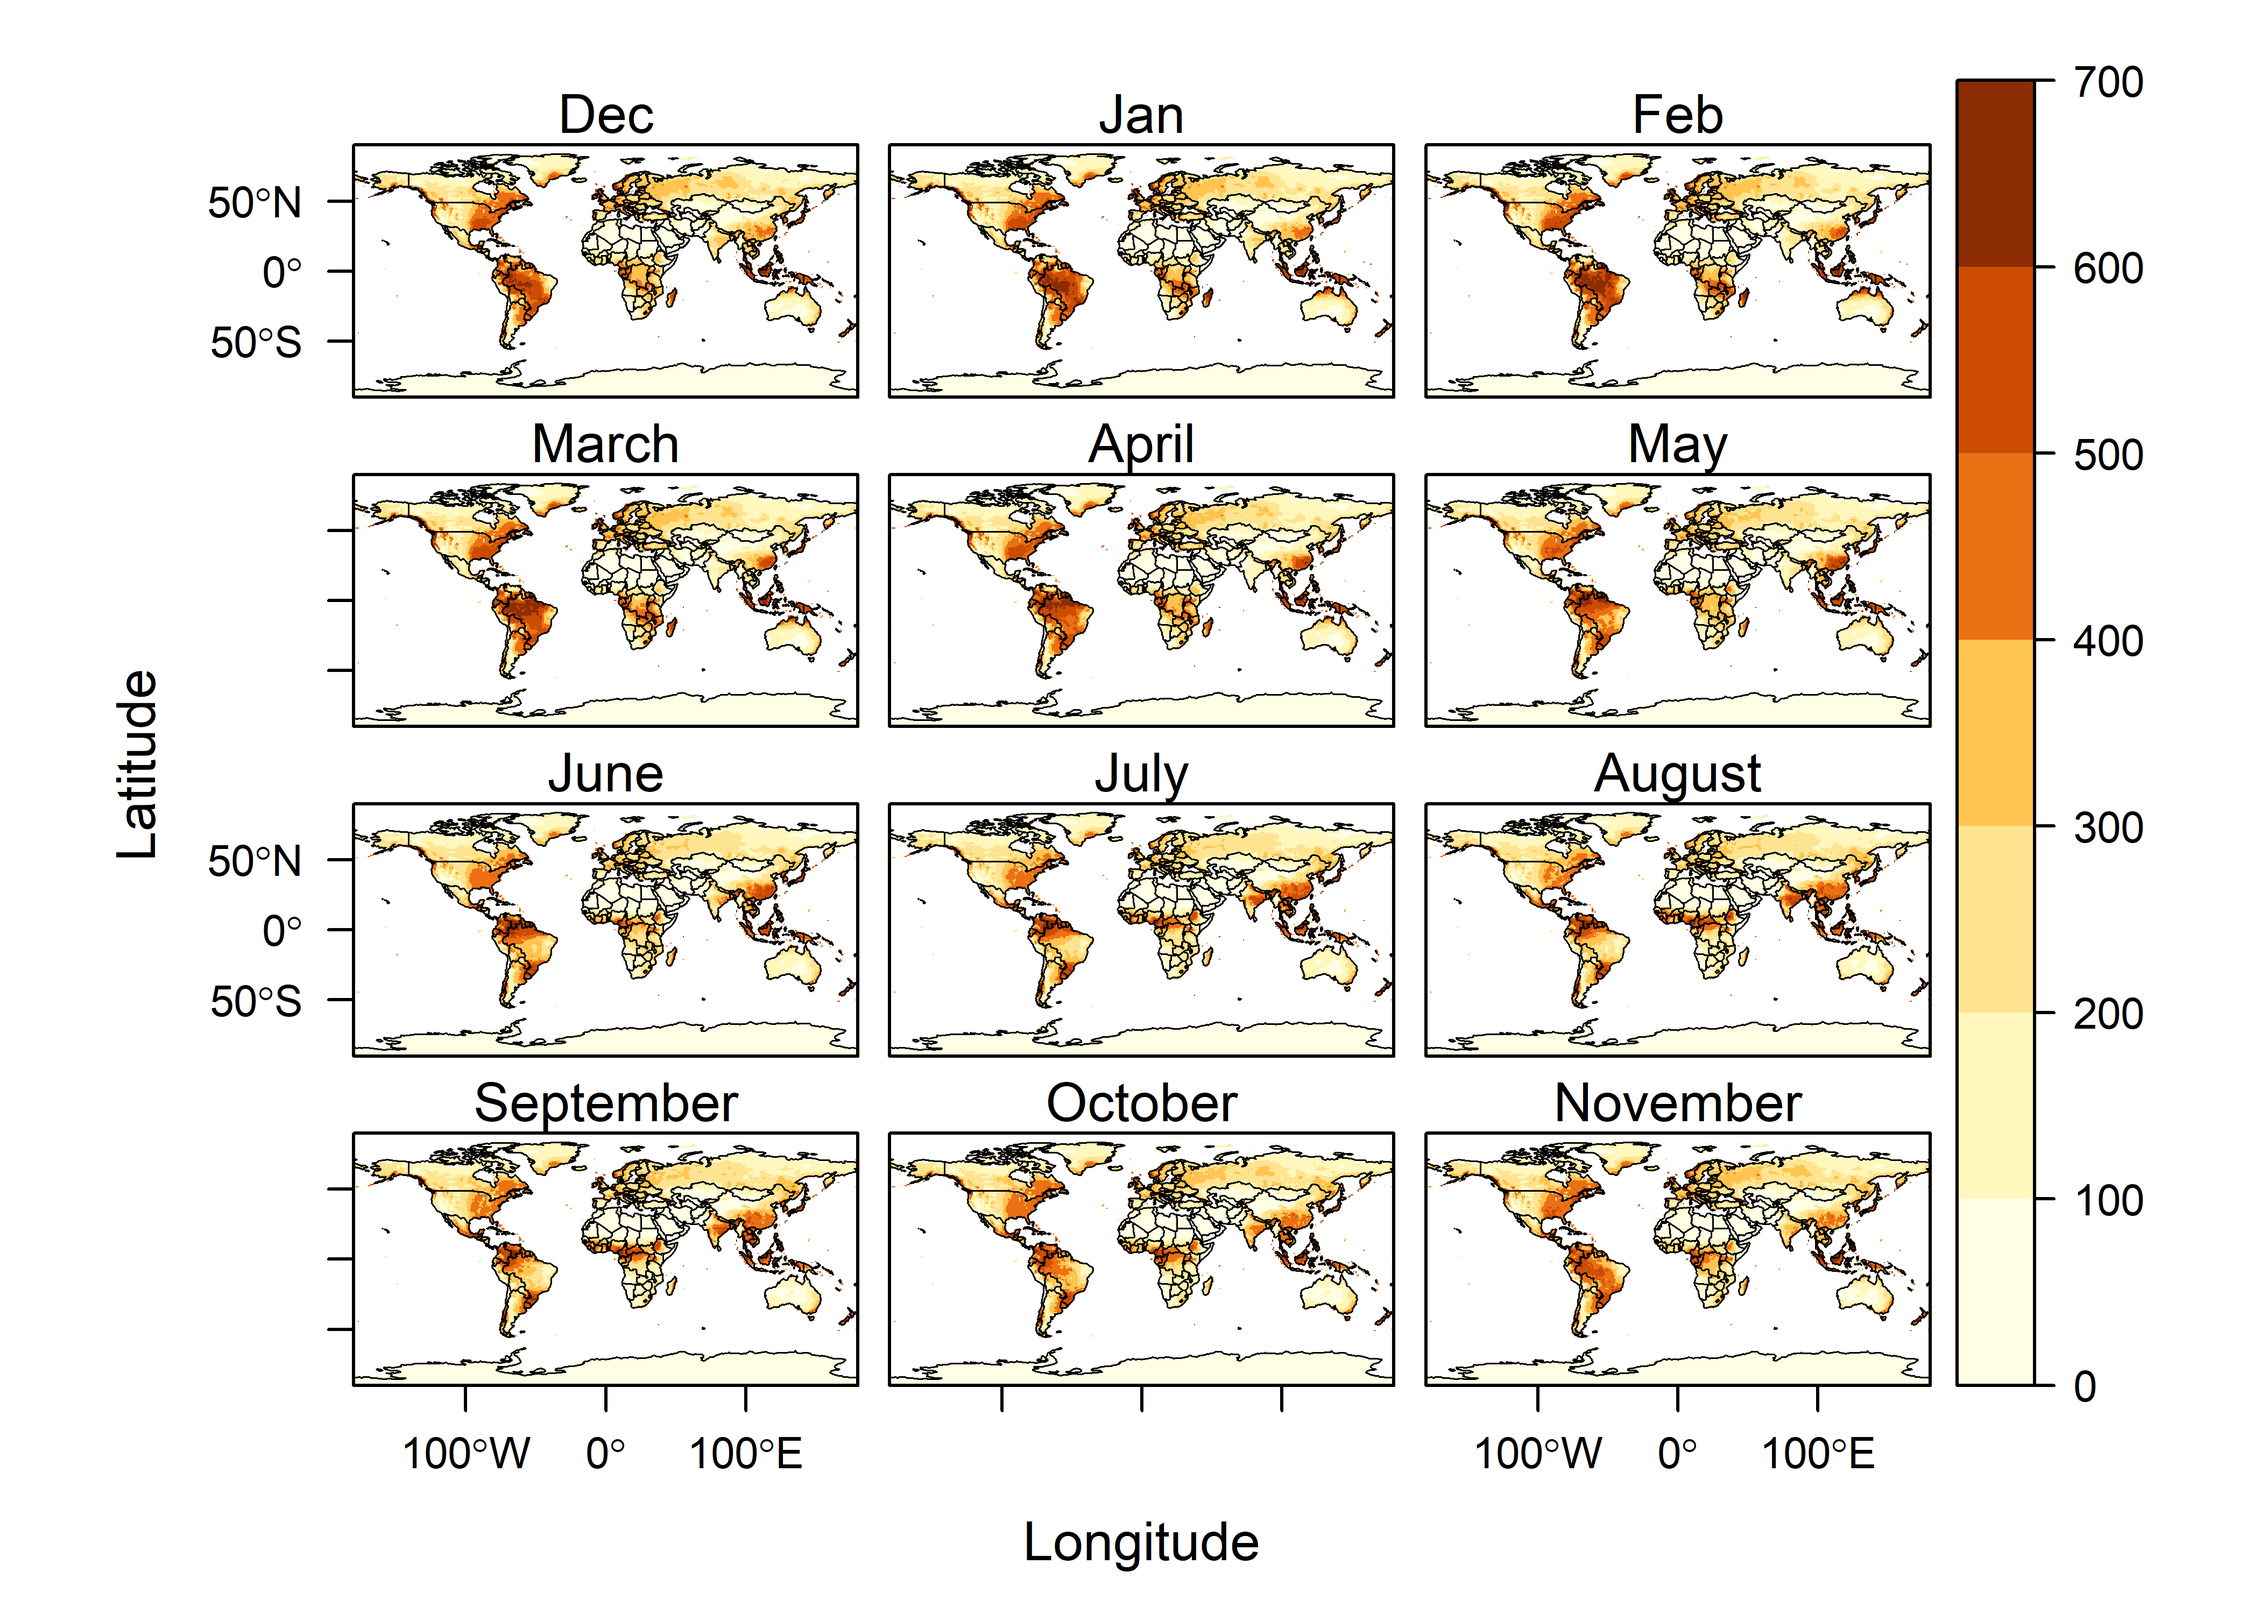
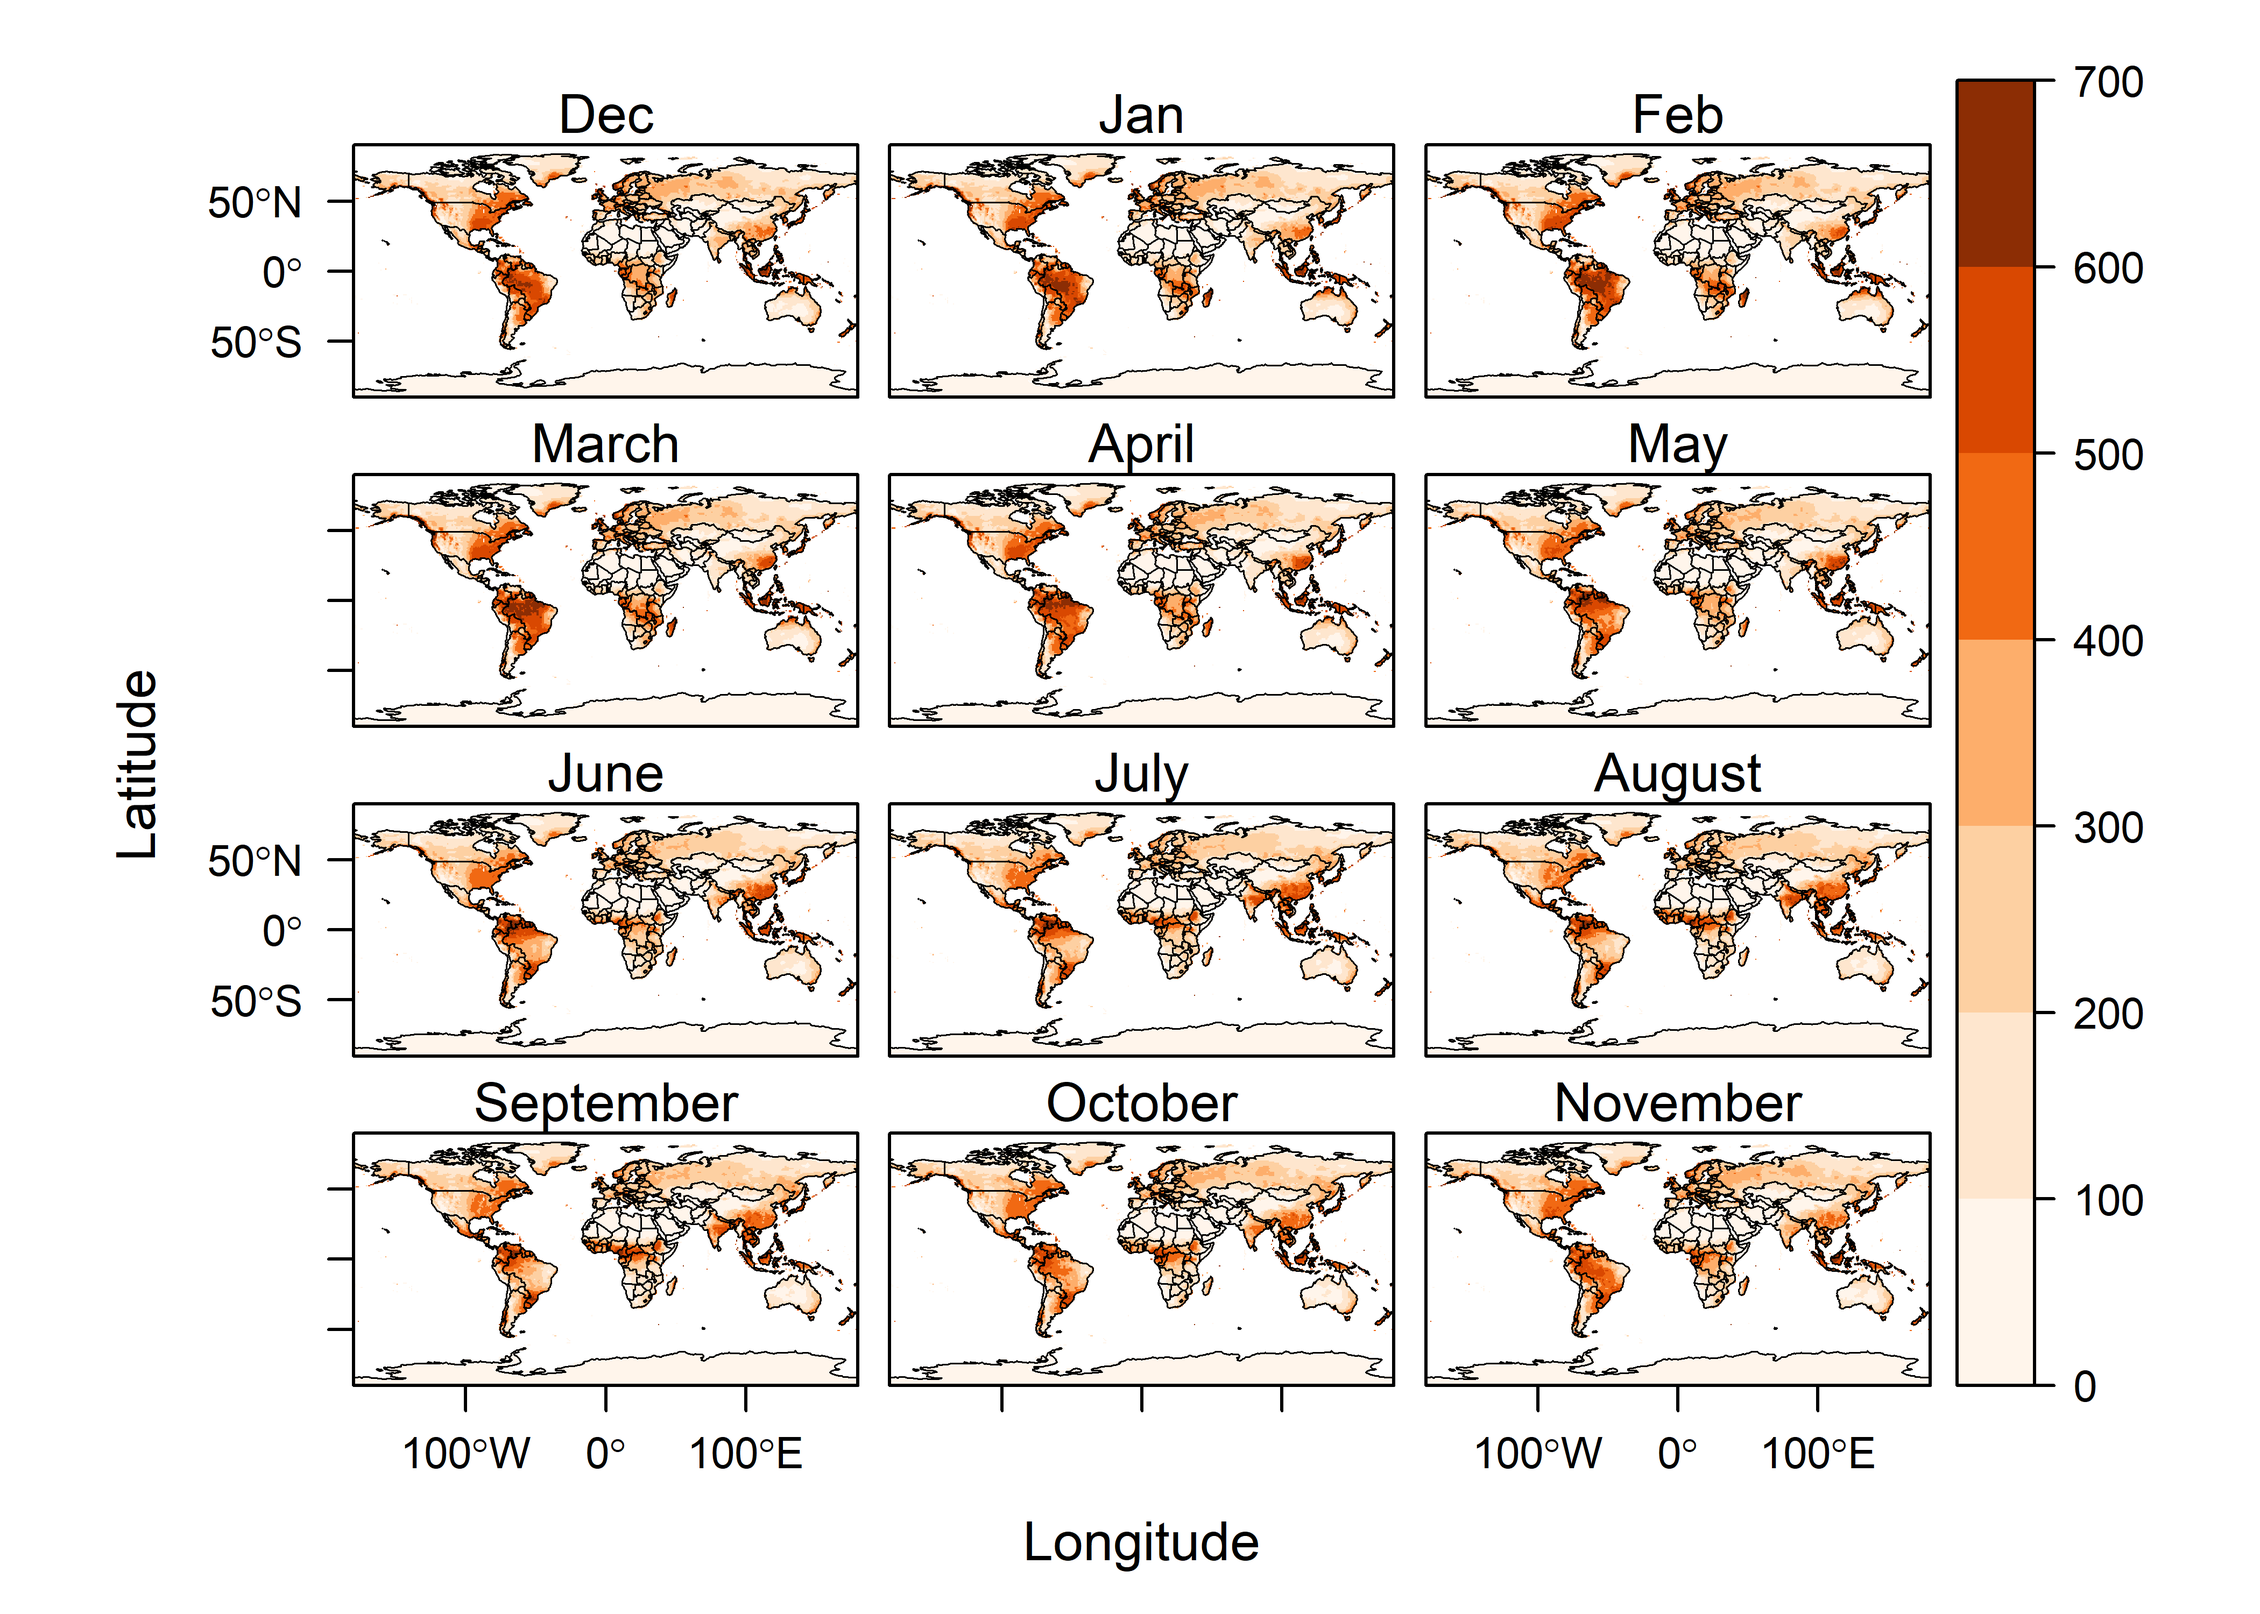
Presentation update

diff --git a/docs/plot_alpha_RMarkdown_Site.html b/docs/plot_alpha_RMarkdown_Site.html
@@ -399,7 +399,7 @@ $(document).ready(function () {
 <li><a href="#read-soil"><span class="toc-section-number">2.2</span> Read Soil</a></li>
 </ul></li>
 <li><a href="#plot-the-data"><span class="toc-section-number">3</span> Plot the data</a></li>
-<li><a href="#plot-the-long-term-mean-for-each-month"><span class="toc-section-number">4</span> Plot the long term mean for each month</a></li>
+<li><a href="#plot-the-long-term-soil-moisture-mean-for-each-month"><span class="toc-section-number">4</span> Plot the long term soil moisture mean for each month</a></li>
 </ul>
 </div>
 
@@ -452,7 +452,7 @@ $(document).ready(function () {
 <h2><span class="header-section-number">2.2</span> Read Soil</h2>
 <p>Now read in soil moisture data with ncdf4 package</p>
 <ul>
-<li>Plotting raster before rotating coordinates</li>
+<li>This piece of code displays the raster coordinate extent before rotating the coordinate system.</li>
 </ul>
 <div class="sourceCode" id="cb17"><pre class="sourceCode r"><code class="sourceCode r"><a class="sourceLine" id="cb17-1" title="1">nc_path &lt;-<span class="st"> &quot;C:</span><span class="ch">\\</span><span class="st">Users</span><span class="ch">\\</span><span class="st">jonjo</span><span class="ch">\\</span><span class="st">Documents</span><span class="ch">\\</span><span class="st">geog490</span><span class="ch">\\</span><span class="st">data</span><span class="ch">\\</span><span class="st">&quot;</span></a>
 <a class="sourceLine" id="cb17-2" title="2">nc_name &lt;-<span class="st"> &quot;soilw.mon.ltm.v2.nc&quot;</span></a>
@@ -472,7 +472,7 @@ $(document).ready(function () {
 ## z-value     : 0000-12-30 
 ## zvar        : soilw</code></pre>
 <ul>
-<li>Plotting raster after rotating coordinates</li>
+<li>This is after rotating the coordinate system to fit the plot</li>
 </ul>
 <div class="sourceCode" id="cb19"><pre class="sourceCode r"><code class="sourceCode r"><a class="sourceLine" id="cb19-1" title="1">soil &lt;-<span class="st"> </span><span class="kw">rotate</span>(soil_raster)</a>
 <a class="sourceLine" id="cb19-2" title="2"></a>
@@ -490,15 +490,15 @@ $(document).ready(function () {
 </div>
 <div id="plot-the-data" class="section level1">
 <h1><span class="header-section-number">3</span> Plot the data</h1>
-<p>Finally, plot the soil moisture data using the <code>levelplot()</code> function from <code>rasterVis</code>:</p>
+<p>Finally, plot the soil moisture data using the <code>levelplot()</code> function from <code>rasterVis</code> for one month:</p>
 <div class="sourceCode" id="cb21"><pre class="sourceCode r"><code class="sourceCode r"><a class="sourceLine" id="cb21-1" title="1"><span class="co"># rasterVis plot</span></a>
-<a class="sourceLine" id="cb21-2" title="2">maptheme &lt;-<span class="st"> </span><span class="kw">rasterTheme</span>(<span class="dt">region=</span><span class="kw">brewer.pal</span>(<span class="dv">8</span>,<span class="st">&quot;YlOrBr&quot;</span>))</a>
-<a class="sourceLine" id="cb21-3" title="3">plt &lt;-<span class="st"> </span><span class="kw">levelplot</span>(soil, <span class="dt">margin=</span>F, <span class="dt">par.settings=</span>maptheme)</a>
+<a class="sourceLine" id="cb21-2" title="2">maptheme &lt;-<span class="st"> </span><span class="kw">rasterTheme</span>(<span class="dt">region=</span><span class="kw">brewer.pal</span>(<span class="dv">8</span>,<span class="st">&quot;Oranges&quot;</span>))</a>
+<a class="sourceLine" id="cb21-3" title="3">plt &lt;-<span class="st"> </span><span class="kw">levelplot</span>(soil, <span class="dt">margin=</span>F, <span class="dt">par.settings=</span>maptheme,<span class="dt">main=</span><span class="st">&quot;Soil Moisture mean&quot;</span>)</a>
 <a class="sourceLine" id="cb21-4" title="4">plt <span class="op">+</span><span class="st"> </span>latticeExtra<span class="op">::</span><span class="kw">layer</span>(<span class="kw">sp.lines</span>(world_outline, <span class="dt">col=</span><span class="st">&quot;gray30&quot;</span>, <span class="dt">lwd=</span><span class="fl">0.5</span>))</a></code></pre></div>
 <p><img src="plot_alpha_RMarkdown_Site_files/figure-html/plot_data-1.png" width="2100" /></p>
 </div>
-<div id="plot-the-long-term-mean-for-each-month" class="section level1">
-<h1><span class="header-section-number">4</span> Plot the long term mean for each month</h1>
+<div id="plot-the-long-term-soil-moisture-mean-for-each-month" class="section level1">
+<h1><span class="header-section-number">4</span> Plot the long term soil moisture mean for each month</h1>
 <div class="sourceCode" id="cb22"><pre class="sourceCode r"><code class="sourceCode r"><a class="sourceLine" id="cb22-1" title="1">NC_soil_ltm &lt;-<span class="st"> </span><span class="kw">stack</span>(nc_file,<span class="dt">varname=</span><span class="st">&quot;soilw&quot;</span>) <span class="co"># Raster stck object</span></a>
 <a class="sourceLine" id="cb22-2" title="2">NC_soil_ltm &lt;-<span class="st"> </span><span class="kw">rotate</span>(NC_soil_ltm) <span class="co"># Rotate the raster object coordinates</span></a>
 <a class="sourceLine" id="cb22-3" title="3"><span class="kw">names</span>(NC_soil_ltm) &lt;-<span class="st"> </span><span class="kw">c</span>(<span class="st">&quot;Dec&quot;</span>,<span class="st">&quot;Jan&quot;</span>,<span class="st">&quot;Feb&quot;</span>,<span class="st">&quot;March&quot;</span>,<span class="st">&quot;April&quot;</span>,<span class="st">&quot;May&quot;</span>,<span class="st">&quot;June&quot;</span>,<span class="st">&quot;July&quot;</span>,<span class="st">&quot;August&quot;</span>,<span class="st">&quot;September&quot;</span>,<span class="st">&quot;October&quot;</span>,<span class="st">&quot;November&quot;</span>)</a>
@@ -508,7 +508,7 @@ $(document).ready(function () {
 <a class="sourceLine" id="cb22-7" title="7">cutpts</a></code></pre></div>
 <pre><code>## [1]   0 100 200 300 400 500 600 700</code></pre>
 <div class="sourceCode" id="cb24"><pre class="sourceCode r"><code class="sourceCode r"><a class="sourceLine" id="cb24-1" title="1">plt &lt;-<span class="st"> </span><span class="kw">levelplot</span>(NC_soil_ltm , <span class="dt">at=</span>cutpts, <span class="dt">cuts=</span><span class="dv">8</span>, <span class="dt">pretty=</span>T, </a>
-<a class="sourceLine" id="cb24-2" title="2">                 <span class="dt">col.regions=</span>(<span class="kw">brewer.pal</span>(<span class="dv">8</span>,<span class="st">&quot;YlOrBr&quot;</span>)))</a>
+<a class="sourceLine" id="cb24-2" title="2">                 <span class="dt">col.regions=</span>(<span class="kw">brewer.pal</span>(<span class="dv">8</span>,<span class="st">&quot;Oranges&quot;</span>)))</a>
 <a class="sourceLine" id="cb24-3" title="3">plt <span class="op">+</span><span class="st"> </span>latticeExtra<span class="op">::</span><span class="kw">layer</span>(<span class="kw">sp.lines</span>(world_outline, <span class="dt">col=</span><span class="st">&quot;black&quot;</span>, <span class="dt">lwd=</span><span class="fl">0.5</span>))</a></code></pre></div>
 <p><img src="plot_alpha_RMarkdown_Site_files/figure-html/plot_months-1.png" width="2100" /></p>
 </div>
